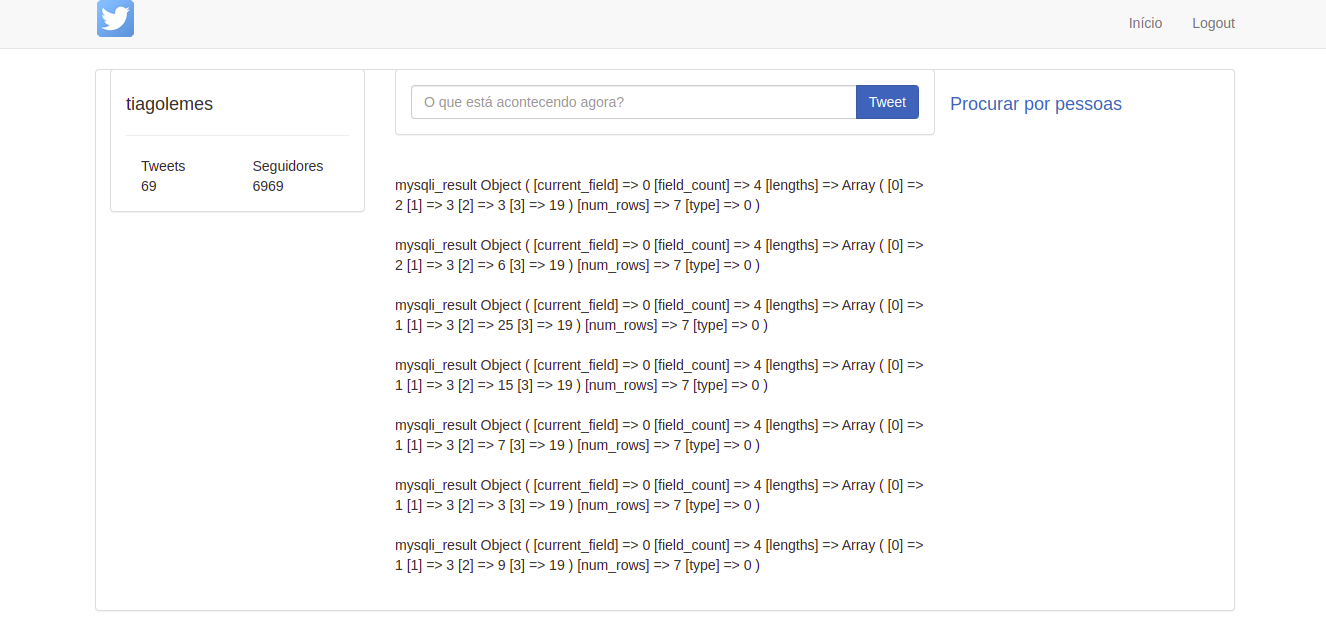
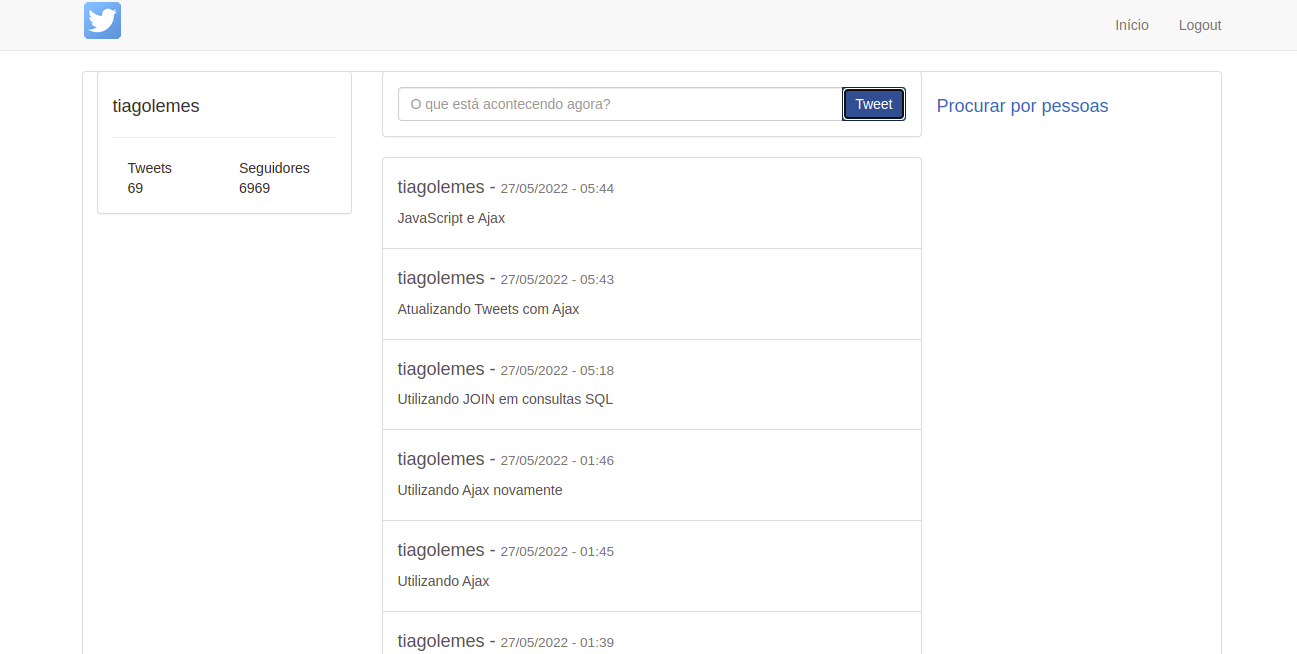
Exibindo post na timeline parte 2

diff --git a/js/home.js b/js/home.js
@@ -13,6 +13,7 @@ $(document).ready( function() {
 				data: $('#form-tweet').serialize(),
 				success: function(data) {
 					alert('Tweet incluído com sucesso')
+					atualizaTweets()
 
 					// limpa campo de novo tweet
 					$('#texto-tweet').val('')

diff --git a/php/get_tweets.php b/php/get_tweets.php
@@ -17,7 +17,7 @@ if ($_SESSION['usuario_id'] == null) {
 
 $usuario_id = $_SESSION['usuario_id'];
 
-$sql = "SELECT * FROM `tweets` WHERE usuario_id = '$usuario_id' ORDER BY data_inclusao DESC";
+$sql = "SELECT * FROM `tweets` INNER JOIN usuarios WHERE tweets.usuario_id = '$usuario_id' AND usuarios.id = '$usuario_id' ORDER BY data_inclusao DESC";
 
 // coisas de conexão
 $obj_db = new db();
@@ -35,8 +35,23 @@ $resultado = mysqli_query($link, $sql);
 
 if ($resultado) {
 	while ($registro = mysqli_fetch_assoc($resultado)) {
-		echo '<br>';
-		print_r($resultado);
-		echo '</br>';
+		?>
+		<a class="list-group-item" href="javascript:void(0)">
+			<h4 class="lit-group-item-heading">
+				<?= $registro['nome'] ?> - 
+				<small>
+					<?php 										 
+						$tempo = strtotime($registro['data_inclusao']);
+						$dia = date("d/m/Y - h:i", $tempo);
+					?>
+					<?= $dia ?>
+				</small>			
+			</h4>
+
+			<p class="lit-group-item-text">
+				<?= $registro['conteudo'] ?>
+			</p>
+		</a>			
+		<?php
 	}
 }
